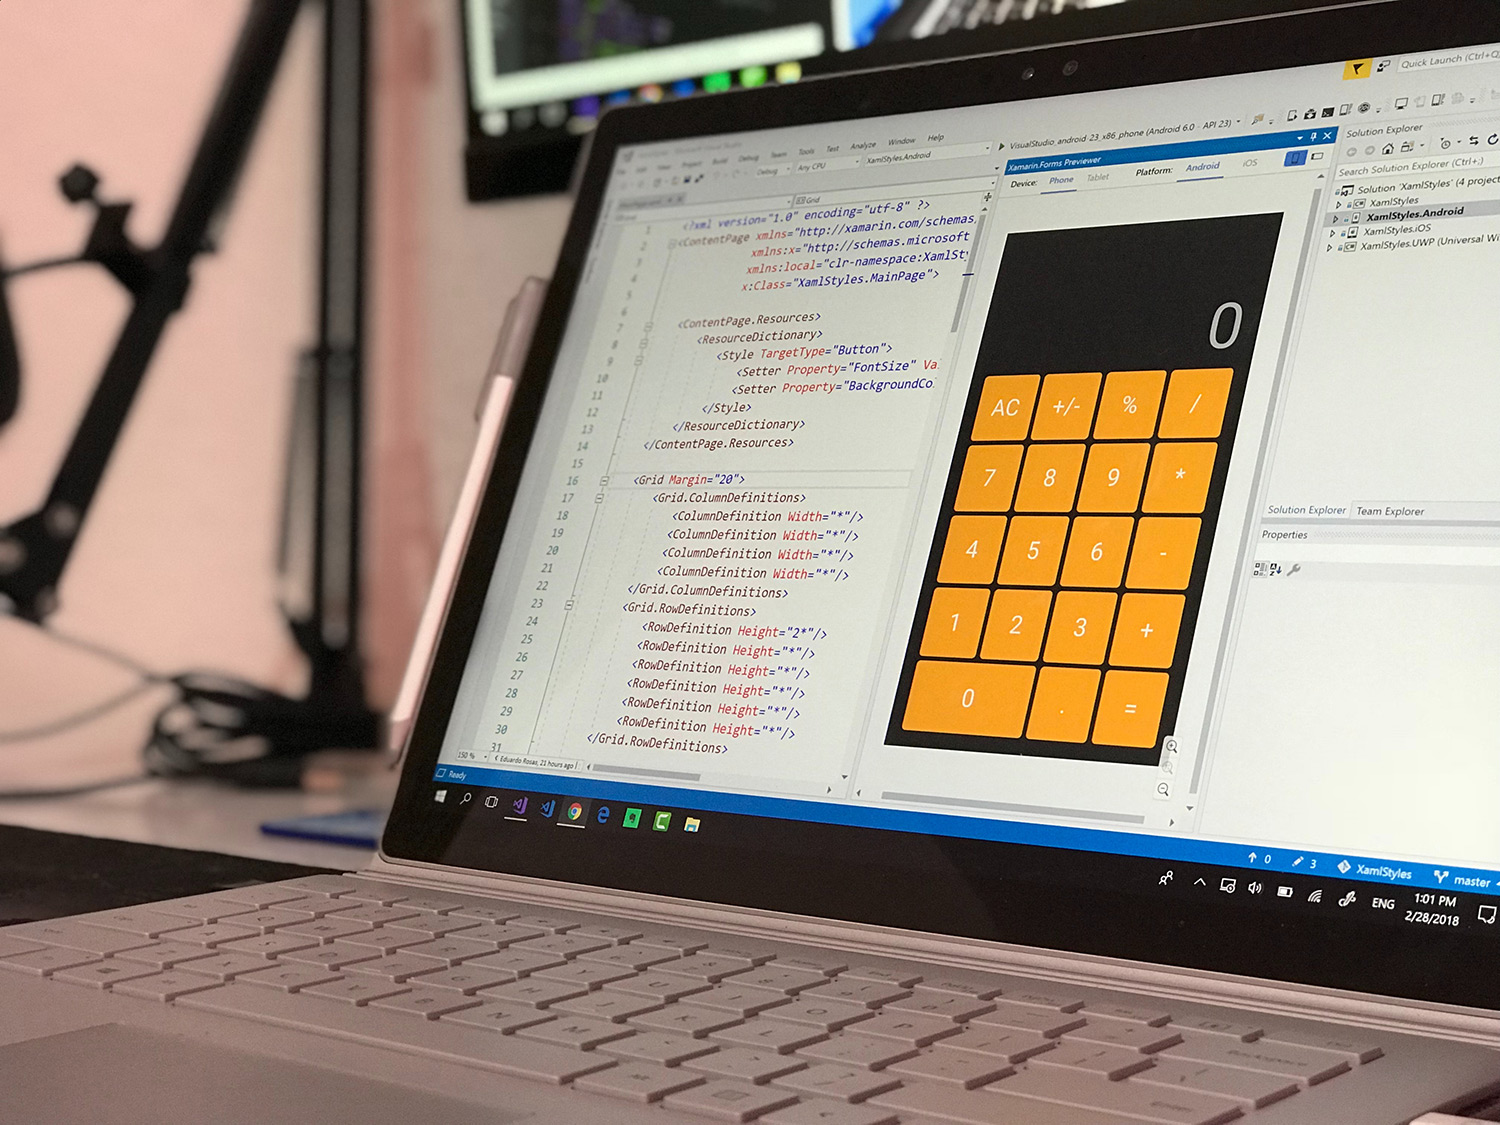
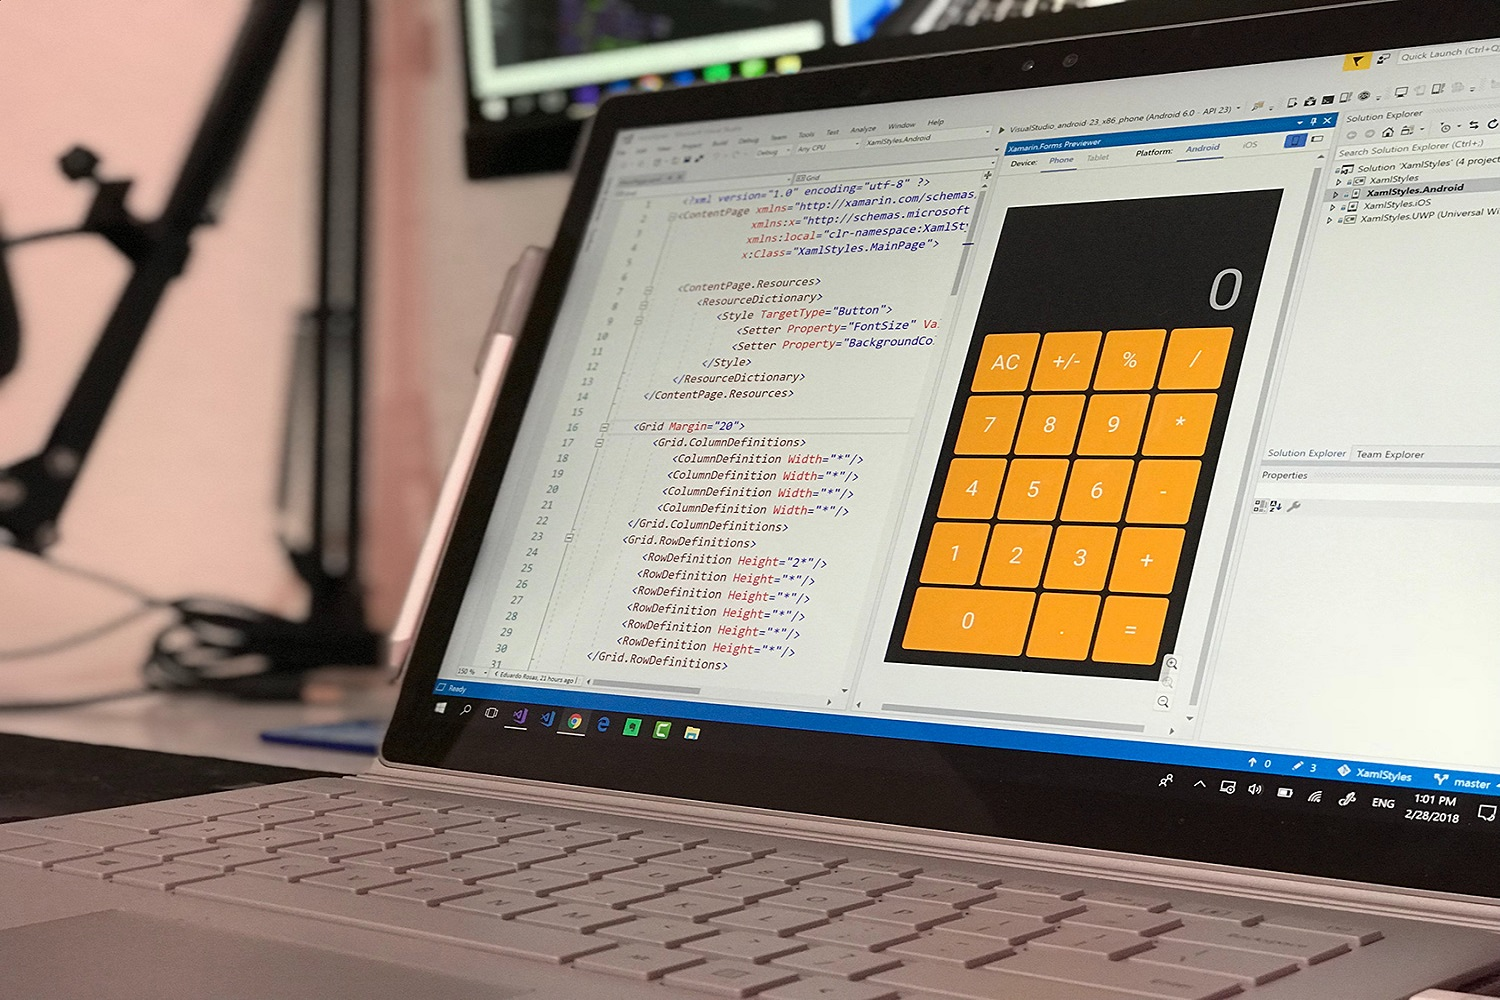
added comments and resized pictures!

diff --git a/index.html b/index.html
@@ -14,191 +14,212 @@
     <link rel="stylesheet" href="css/style.css" />
     <script src="https://kit.fontawesome.com/7dfa58ae53.js" crossorigin="anonymous"></script>
   </head>
+
+  <!-- Body -->
   <body>
-   <!-- navigation start -->
 
-    <!-- Navbar -->
-<nav class="navbar navbar-expand-lg navbar-dark bg-dark">
-  <!-- Container wrapper -->
-  <div class="container-fluid">
-    <!-- Toggle button -->
-    <button class="navbar-toggler"type="button">
-      <i class="fas fa-bars"></i>
-    </button>
+    <!-- navigation start -->
+    <nav class="navbar navbar-expand-lg navbar-dark bg-dark">
+        <!-- Container wrapper -->
+        <div class="container-fluid">
+            <!-- Toggle button -->
+            <button class="navbar-toggler"type="button">
+              <i class="fas fa-bars"></i>
+            </button>
+            <!-- Collapsible wrapper -->
+            <div class="collapse navbar-collapse" id="navbarSupportedContent">
+                  <!-- Navbar brand -->
+                  <a class="navbar-brand mt-2 mt-lg-0" href="#">
+                      <img src="./images/logo.PNG" alt="KB Logo"/>
+                  </a>
+                  <!-- links -->
+                  <ul class="navbar-nav me-auto mb-2 mb-lg-0">
+                      <li class="nav-item">
+                            <a class="nav-link" href="#about-me-section">About me</a>
+                      </li>
+                      <li class="nav-item">
+                            <a class="nav-link" href="#work-section">Work</a>
+                      </li>
+                      <li class="nav-item">
+                            <a class="nav-link" href="#contact-me">Contact</a>
+                      </li>
+                  </ul>
+            </div>
+        </div>
+      <!-- Container wrapper -->
+    </nav>
+    <!-- End navigation bar -->
 
-    <!-- Collapsible wrapper -->
-    <div class="collapse navbar-collapse" id="navbarSupportedContent">
-      <!-- Navbar brand -->
-      <a class="navbar-brand mt-2 mt-lg-0" href="#">
-        <img src="./images/logo.PNG" alt="KB Logo"/>
-      </a>
-      <!-- links -->
-      <ul class="navbar-nav me-auto mb-2 mb-lg-0">
-        <li class="nav-item">
-          <a class="nav-link" href="#about-me-section">About me</a>
-        </li>
-        <li class="nav-item">
-          <a class="nav-link" href="#work-section">Work</a>
-        </li>
-        <li class="nav-item">
-          <a class="nav-link" href="#contact-me">Contact</a>
-        </li>
-      </ul>
-     
-  </div>
-  <!-- Container wrapper -->
-</nav>
-<!-- Navbar -->
-  
-  
-  
-<!-- End navigation bar -->
+    <!-- hero section -->
+    <div class="jumbotron ">
+      <div class="jumboCopy text-white h4">
+        <a class="" href="#"><img class="id-img" src="images/id.png"></a>
+        <h1 class="display-4">Kamel Beloula</h1>
+        <p class="lead">Stock administrator turned web Developer</p>
+      </div>
+    </div>
+    <!-- hero section end -->
+          
+    <!-- about me section -->
 
-<!-- hero section -->
-<div class="jumbotron ">
-  <div class="jumboCopy text-white h4">
-    <a class="" href="#"><img class="id-img" src="images/id.png"></a>
-    <h1 class="display-4">Kamel Beloula</h1>
-    <p class="lead">Stock administrator turned web Developer</p>
-  </div>
-</div>
-
-<!-- hero section end -->
-		
-<!-- about me section -->
-	<!-- About me  Heading -->
-  <section class="container-fluid" id="about-me-section">
-    <div class="row">
+    <section class="container-fluid" id="about-me-section">
+      <div class="row">
+        
+        <!-- About me  Heading -->
         <div class="col-md-3 col-sm-12 text-right mt-5 section-header">
           <h1 class="text-dark pt-4">About me</h1>
-          <div class="border-right border-primary mx-auto my-3"></div>
         </div>
+
         <!-- about me content -->
         <div class="col-md-9 col-sm-12 mt-5 ">
-          <p> ipsum dolor sit amet consectetur adipisicing elit. Voluptatum saepe similique, aperiam velit est ex, soluta pariatur dolorem, repudiandae rem laboriosam accusamus ducimus. Optio eligendi possimus a nesciunt aliquid amet? <br>Lorem ipsum dolor sit amet consectetur adipisicing elit. At asperiores, ea consequatur non, in tempora minus saepe doloremque ab tenetur dolore eos laborum dolor corrupti ratione veniam, nesciunt aliquam nisi.</p>
+          <p> ipsum dolor sit amet consectetur adipisicing elit. Voluptatum saepe similique, aperiam velit est ex, soluta pariatur dolorem, repudiandae rem. Optio eligendi possimus a nesciunt aliquid amet? <br> Lorem ipsum dolor sit amet consectetur adipisicing elit. At asperiores, ea consequatur non, in tempora minus saepe doloremque ab tenetur dolore eos laborum dolor corrupti ratione veniam, nesciunt aliquam nisi.</p>
         </div>
-    </div>
-  </section>
 
-<!-- my work section -->
-<!-- My work  Heading -->
-  <section class="container-fluid" id="work-section">
-    <div class="row">
-      <div class="col-md-3 col-sm-12 mt-5 text-right mt-5 section-header">
-        <h1 class="text-dark pt-4">My Work</h1>
-        <div class="border-right border-primary w-25 mx-auto my-2"></div>
       </div>
-        <!-- four Column Section -->
-      <div class="card-deck col-md-9 col-sm-12 mt-5">
-        <div class="row row-cols-1 row-cols-md-2">
-            <div class="col mb-4">
-              <div class="card">
-                <img src="images/02-calcultor.jpg" class="card-img-top" alt="...">
-                <div class="card-body">
-                  <h5 class="card-title">Card title</h5>
-                  <p class="card-text">This is a longer card with supporting text below as a natural lead-in to additional content. This content is a little bit longer.</p>
-                </div>
-              </div>
-            </div>
-            <div class="col mb-4">
-              <div class="card">
-                <img src="images/02-led-all.jpg" class="card-img-top" alt="...">
-                <div class="card-body">
-                  <h5 class="card-title">Card title</h5>
-                  <p class="card-text">This is a longer card with supporting text below as a natural lead-in to additional content. This content is a little bit longer.</p>
-                </div>
-              </div>
-            </div>
-            <div class="col mb-4">
-              <div class="card">
-                <img src="images/02-pastel-puzzles.jpg" class="card-img-top" alt="...">
-                <div class="card-body">
-                  <h5 class="card-title">Card title</h5>
-                  <p class="card-text">This is a longer card with supporting text below as a natural lead-in to additional content.</p>
-                </div>
-              </div>
-            </div>
-            <div class="col mb-4">
-              <div class="card">
-                <img src="images/02-run-buddy.jpg" class="card-img-top" alt="...">
-                <div class="card-body">
-                  <h5 class="card-title">Card title</h5>
-                  <p class="card-text">This is a longer card with supporting text below as a natural lead-in to additional content. This content is a little bit longer.</p>
-                </div>
-              </div>
-            </div>
-        </div>
-      </div>
-    </div>
-  </div>
-
-    <!-- skills end-->
-  
-  <!-- cards section -->
-
-  
-  <!-- end card section -->
-
-  <!-- contct me section start-->
-  <section class="container-fluid" id="contact-me">
-    <div class="row">
-        <div class="col-md-3 col-sm-12 text-right mt-5 section-header">
-          <h1 class="text-dark pt-4">Contact</h1>
-          <div class="border-right border-primary mx-auto my-3"></div>
-        </div>
-        <!-- about me content -->
-        <ul class="col-md-9 col-sm-12 list">
-          <li class="list-item"><a href="" class="nav-link"><tel:07923286763>07923286763</tel:07923286763></a></li>
-          <li class="list-item"><a href="" class="nav-link">Email</a></li>
-          <li class="list-item"><a href="" class="nav-link">github</a></li>
-        </ul>
-    </div>
-  </section>
-  <!-- contct me section end-->
-
-	<!-- Footer -->
-<footer class="bg-dark footer-expand-lg text-center text-white">
-
-  <div class="container p-4">
-    <!-- Section: Social media -->
-    <section class="mb-4">
-      <!-- Facebook -->
-      <a class="btn btn-outline-light btn-floating m-1" href="#!" role="button"
-        ><i class="fab fa-facebook-f"></i
-      ></a>
-
-      <!-- Twitter -->
-      <a class="btn btn-outline-light btn-floating m-1" href="#!" role="button"
-        ><i class="fab fa-twitter"></i
-      ></a>
-
-      <!-- Google -->
-      <a class="btn btn-outline-light btn-floating m-1" href="#!" role="button"
-        ><i class="fab fa-google"></i
-      ></a>
-
-      <!-- Instagram -->
-      <a class="btn btn-outline-light btn-floating m-1" href="#!" role="button"
-        ><i class="fab fa-instagram"></i
-      ></a>
-
-      <!-- Linkedin -->
-      <a class="btn btn-outline-light btn-floating m-1" href="#!" role="button"
-        ><i class="fab fa-linkedin-in"></i
-      ></a>
-
-      <!-- Github -->
-      <a class="btn btn-outline-light btn-floating m-1" href="#!" role="button"
-        ><i class="fab fa-github"></i
-      ></a>
-      <!-- Copyright --> 
-      <p class="py-1">© 2022 Copyright : Kamel Beloula</p>
-      <!-- Copyright --> 
     </section>
-    <!-- Section: Social media -->
-  </div>
-</footer>    
-<!-- Footer -->
-</body>
+    <!-- end about me section -->
+
+    <!-- my work section start -->
+    <section class="container-fluid" id="work-section">
+      <div class="row">
+
+        <!-- My work  Heading -->
+        <div class="col-md-3 col-sm-12 text-right mt-5 section-header">
+          <h1 class="text-dark pt-4">My Work</h1>
+        </div>
+
+          <!-- my work content -->
+        <div class="card-deck col-md-9 col-sm-12 mt-5">
+
+          <div class="row row-cols-1 row-cols-md-2">
+              <div class="col mb-4 col-sm-12">
+                <div class="card">
+                  <a href=""><img src="images/02-calcultor.jpg" class="card-img-top" alt="laptop screen displaying a calculator"></a>
+                  <div class="card-body">
+                    <h5 class="card-title text-dark">Calculator Project</h5>
+                    <p class="card-text">Lorem ipsum dolor sit, amet consectetur adipisicing elit. Nulla, unde.</p>
+                  </div>
+                </div>
+              </div>
+              <div class="col mb-4 col-sm-12">
+                <div class="card">
+                  <a href="" target="_blank"><img src="images/02-led-all.jpg" class="card-img-top" alt="wall of red leds"></a>
+                  <div class="card-body">
+                    <h5 class="card-title text-dark">Led project</h5>
+                    <p class="card-text">Lorem ipsum dolor sit amet consectetur, adipisicing elit. Nostrum, assumenda.</p>
+                  </div>
+                </div>
+              </div>
+              <div class="col mb-4 col-sm-12">
+                <div class="card">
+                  <a href=""><img src="images/02-pastel-puzzles.jpg" class="card-img-top" alt="blue toy car"></a>
+                  <div class="card-body">
+                    <h5 class="card-title text-dark">Parking application</h5>
+                    <p class="card-text">Lorem ipsum dolor sit amet consectetur adipisicing elit. Nam, quidem!</p>
+                  </div>
+                </div>
+              </div>
+              <div class="col mb-4 col-sm-12">
+                <div class="card">
+                  <a href=""><img src="images/02-surf-report.jpg" class="card-img-top" alt="surfer on a beach"></a>
+                  <div class="card-body">
+                    <h5 class="card-title text-dark">Surfing Weather</h5>
+                    <p class="card-text">Lorem ipsum dolor sit amet consectetur adipisicing elit. Suscipit, obcaecati.</p>
+                  </div>
+                </div>
+              </div>
+          </div>
+
+          <!-- skills start-->
+          <div class="card-group col-md-12 ">
+
+              <!-- skills heading -->
+              <div class="card-body col-md-12">
+                <h4 class="card-title text-dark">Skills</h4>
+              </div>
+            
+              <!-- skills cards -->
+              <!-- languages -->
+            <div class="card">
+              <div class="card-body">
+                <h5 class="card-title text-dark">Languages</h5>
+                <p class="card-text"> HTML <br> CSS <br> Javascript</p>
+              </div>
+            </div>
+              <!-- front-end tools -->
+            <div class="card">
+              <div class="card-body">
+                <h5 class="card-title text-dark">Front-end Tools</h5>
+                <p class="card-text">JQuery <br>React <br>NextJS <br>Angular</p>
+              </div>
+            </div>
+              <!-- technologies -->
+            <div class="card">
+              <div class="card-body">
+                <h5 class="card-title text-dark">Technologies</h5>
+                <p class="card-text">Git <br>Github/Gitlab <br>Visual Studio Code <br>Figma</p>
+              </div>
+            </div>
+          </div>
+          <!-- skills end-->
+          
+        </div>
+      </div>
+    </div>
+     <!-- my work section end-->
+
+    <!-- contact me section start-->
+    <section class="container-fluid" id="contact-me">
+      <div class="row">
+          <!-- contact me header -->
+          <div class="col-md-3 col-sm-12 text-right mt-5 section-header">
+            <h1 class="text-dark pt-4">Contact</h1>
+          </div>
+
+          <!-- about me content -->
+          <ul class="col-md-9 col-sm-12 list">
+            <li class="list-item"><a href="" class="nav-link"><tel:07923286763>07923286763</tel:07923286763></a></li>
+            <li class="list-item"><a href="" class="nav-link">Email</a></li>
+            <li class="list-item"><a href="" class="nav-link">github</a></li>
+          </ul>
+      </div>
+    </section>
+    <!-- contct me section end-->
+
+    <!-- Footer start -->
+    <footer class="bg-dark footer-expand-lg text-center text-white">
+
+      <div class="container p-4">
+        <!-- Section: Social media -->
+        <div class="mb-4">
+              <!-- Facebook -->
+              <a class="btn btn-outline-light btn-floating m-1" href="#!" role="button"><i class="fab fa-facebook-f"></i></a>
+
+              <!-- Twitter -->
+              <a class="btn btn-outline-light btn-floating m-1" href="#!" role="button"><i class="fab fa-twitter"></i></a>
+
+              <!-- Google -->
+              <a class="btn btn-outline-light btn-floating m-1" href="#!" role="button"><i class="fab fa-google"></i></a>
+
+              <!-- Instagram -->
+              <a class="btn btn-outline-light btn-floating m-1" href="#!" role="button"><i class="fab fa-instagram"></i></a>
+
+              <!-- Linkedin -->
+              <a class="btn btn-outline-light btn-floating m-1" href="#!" role="button"><i class="fab fa-linkedin-in"></i></a>
+
+              <!-- Github -->
+              <a class="btn btn-outline-light btn-floating m-1" href="#!" role="button"><i class="fab fa-github"></i></a>
+        </div>
+        <!-- Section: Social media -->
+
+        <!-- Copyright --> 
+              <p class="py-1">© 2022 Copyright : Kamel Beloula</p>
+        <!-- Copyright --> 
+
+      </div>
+    </footer>    
+    <!-- Footer end-->
+
+  </body>
 </html>
 
